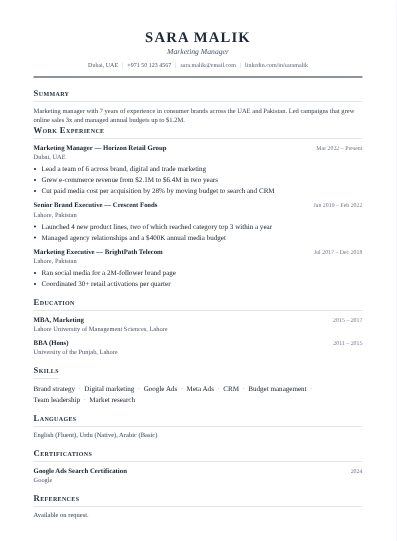
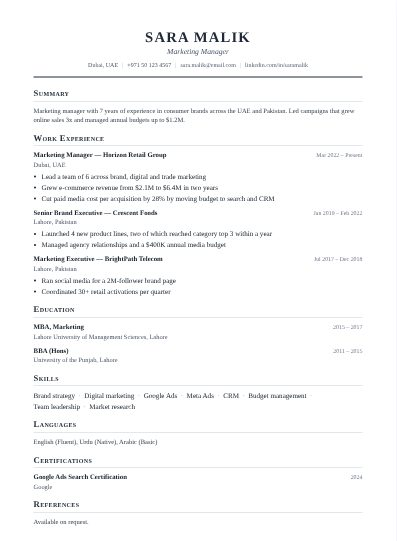
Fix summary section losing its bottom margin
The section wrapper's class r-summary collided with the paragraph style
of the same name. Section classes are now rs-<key>.

Claude-Session: https://claude.ai/code/session_01YMocQb6raaCUaLm3zbByrP

diff --git a/styles.css b/styles.css
@@ -325,10 +325,10 @@ img{max-width:100%;display:block;}
 /* template: timeline */
 .tpl-timeline .r-header{border-bottom:2px solid var(--acc);padding-bottom:4mm;}
 .tpl-timeline .r-section h2{border:none;padding:0;}
-.tpl-timeline .r-experience .r-item,.tpl-timeline .r-education .r-item,.tpl-timeline .r-certs .r-item{
+.tpl-timeline .rs-experience .r-item,.tpl-timeline .rs-education .r-item,.tpl-timeline .rs-certs .r-item{
   position:relative;padding-left:16px;border-left:2px solid var(--acc-mid);margin-left:5px;padding-bottom:6px;margin-bottom:2px;
 }
-.tpl-timeline .r-experience .r-item::before,.tpl-timeline .r-education .r-item::before,.tpl-timeline .r-certs .r-item::before{
+.tpl-timeline .rs-experience .r-item::before,.tpl-timeline .rs-education .r-item::before,.tpl-timeline .rs-certs .r-item::before{
   content:"";position:absolute;left:-6px;top:4px;width:10px;height:10px;border-radius:50%;background:#fff;border:2px solid var(--acc);
 }
 .tpl-timeline .r-item-date{color:var(--acc);font-weight:700;}

diff --git a/script.js b/script.js
@@ -427,7 +427,7 @@
 
   function sec(key, title, inner){
     if(!inner) return "";
-    return '<section class="r-section r-'+key+'"><h2>'+title+'</h2><div class="r-body">'+inner+'</div></section>';
+    return '<section class="r-section rs-'+key+'"><h2>'+title+'</h2><div class="r-body">'+inner+'</div></section>';
   }
 
   function summaryHtml(){ return state.summary ? sec("summary","Summary",'<p class="r-summary">'+esc(state.summary)+'</p>') : ""; }
